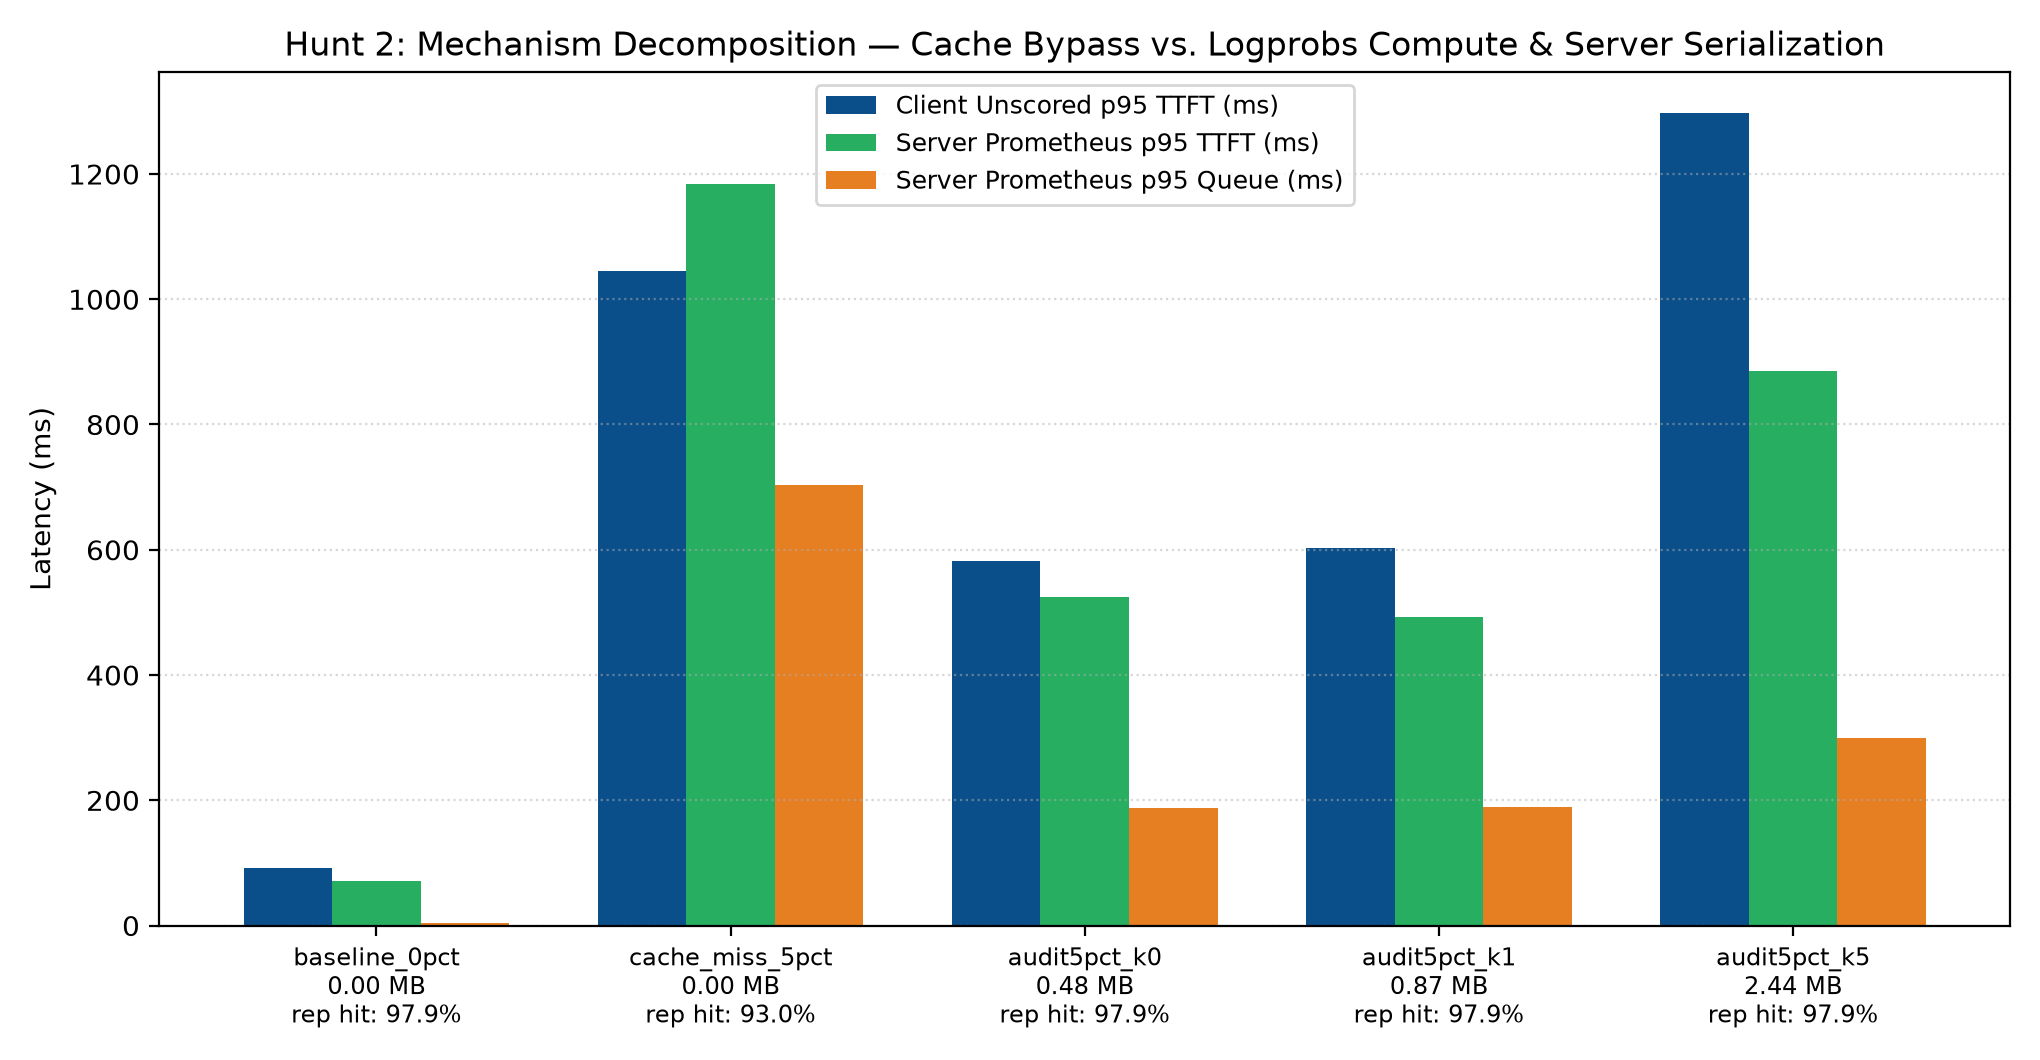
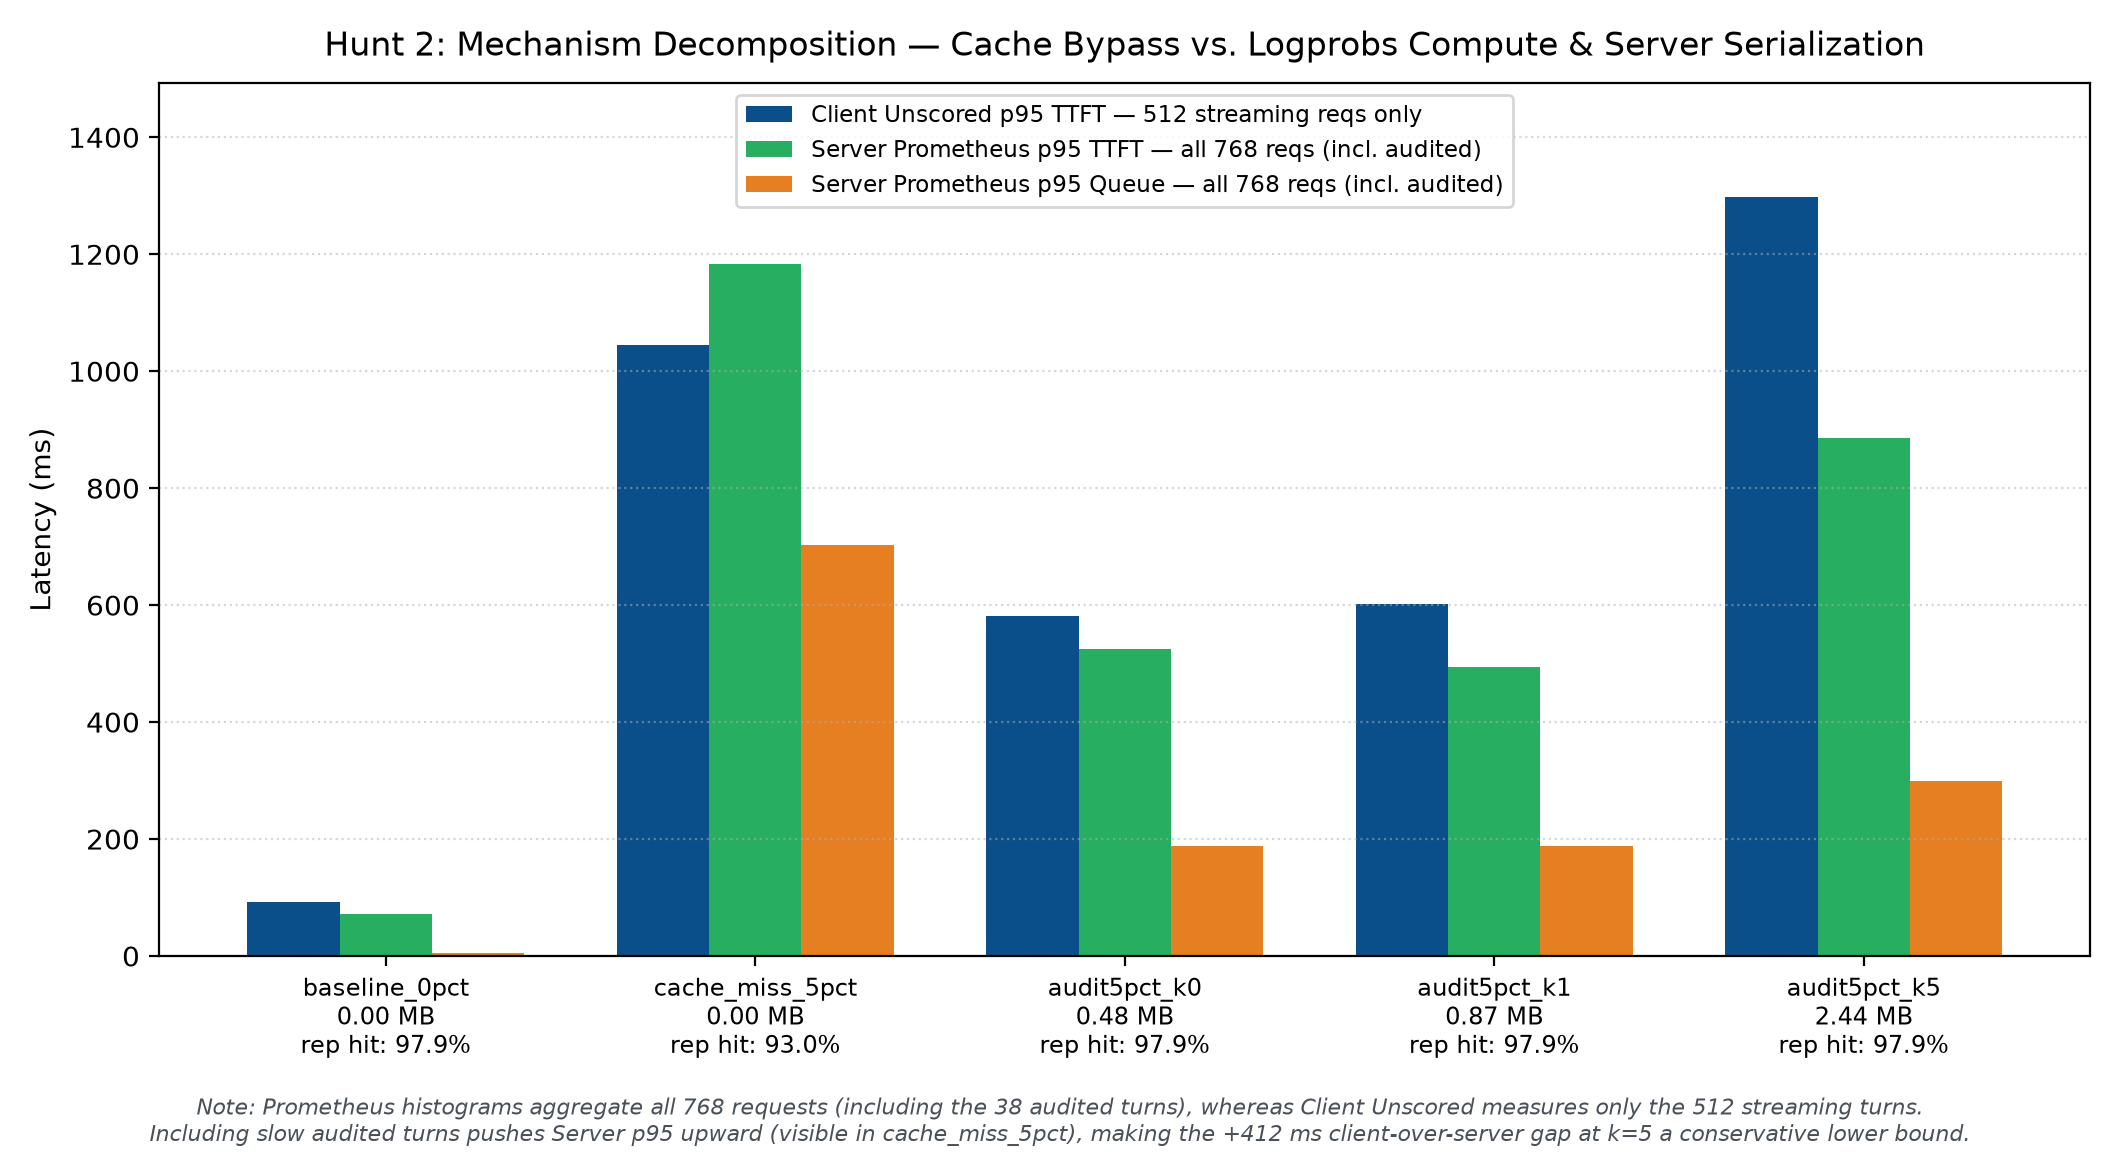
Document Hunt 2 population caveat, add Scope & Limitations, and fail fast on failed cache reset

diff --git a/plot_results.py b/plot_results.py
@@ -296,10 +296,10 @@ def plot_hunt2(results_dir: Path, out_dir: Path) -> None:
 
     x = np.arange(len(order))
     w = 0.25
-    fig, ax = plt.subplots(figsize=(10.2, 5.3), dpi=180)
-    ax.bar(x - w, client_p95, w, label="Client Unscored p95 TTFT (ms)", color="#0b4f8a")
-    ax.bar(x, srv_ttft_p95, w, label="Server Prometheus p95 TTFT (ms)", color="#27ae60")
-    ax.bar(x + w, srv_q_p95, w, label="Server Prometheus p95 Queue (ms)", color="#e67e22")
+    fig, ax = plt.subplots(figsize=(10.6, 5.8), dpi=180)
+    ax.bar(x - w, client_p95, w, label="Client Unscored p95 TTFT — 512 streaming reqs only", color="#0b4f8a")
+    ax.bar(x, srv_ttft_p95, w, label="Server Prometheus p95 TTFT — all 768 reqs (incl. audited)", color="#27ae60")
+    ax.bar(x + w, srv_q_p95, w, label="Server Prometheus p95 Queue — all 768 reqs (incl. audited)", color="#e67e22")
     ax.set_xticks(x)
     ax.set_xticklabels(
         [
@@ -309,10 +309,25 @@ def plot_hunt2(results_dir: Path, out_dir: Path) -> None:
         fontsize=8.5,
     )
     ax.set_ylabel("Latency (ms)")
-    ax.set_title("Hunt 2: Mechanism Decomposition — Cache Bypass vs. Logprobs Compute & Server Serialization")
+    ax.set_title(
+        "Hunt 2: Mechanism Decomposition — Cache Bypass vs. Logprobs Compute & Server Serialization",
+        pad=10,
+    )
+    ax.set_ylim(0, max(client_p95 + srv_ttft_p95) * 1.15)
     ax.grid(axis="y", linestyle=":", alpha=0.5)
-    ax.legend(frameon=True, fontsize=9)
-    fig.tight_layout()
+    ax.legend(loc="upper center", frameon=True, fontsize=8.4)
+    fig.text(
+        0.5,
+        0.01,
+        "Note: Prometheus histograms aggregate all 768 requests (including the 38 audited turns), whereas Client Unscored measures only the 512 streaming turns.\n"
+        "Including slow audited turns pushes Server p95 upward (visible in cache_miss_5pct), making the +412 ms client-over-server gap at k=5 a conservative lower bound.",
+        ha="center",
+        va="bottom",
+        fontsize=7.8,
+        color="#495057",
+        style="italic",
+    )
+    fig.tight_layout(rect=(0.0, 0.06, 1.0, 1.0))
     fig.savefig(out_dir / "hunt2_serialization_gap.png", dpi=200)
     plt.close(fig)
     print(f"[saved] {out_dir / 'hunt2_serialization_gap.png'}")

diff --git a/benchmark.py b/benchmark.py
@@ -828,6 +828,11 @@ async def run_single(
             ks=tuple(sorted({0, 1, 5, audit_logprobs_k})),
         )
         cache_reset_ok = await reset_prefix_cache(client, base_url)
+        if not cache_reset_ok:
+            raise RuntimeError(
+                f"POST {base_url}/reset_prefix_cache failed. "
+                "Start vLLM with VLLM_SERVER_DEV_MODE=1 to guarantee inter-run prefix-cache isolation."
+            )
         warmup_s = await warmup_sessions(client, base_url, model, warmup_prefixes)
         await asyncio.sleep(2.0)
         metrics_before = await fetch_metrics(client, base_url)

diff --git a/README.md b/README.md
@@ -50,7 +50,15 @@ All **76 benchmark runs** (58,368 total requests across calibration, main sweep,
    - **`cache_miss_5pct`** (token 0 mutated, no `prompt_logprobs`): Unscored p95 TTFT reached **`333.6 ms` / `461.8 ms` / `2,339.3 ms`** across seeds (median `461.8 ms`, mean `1,044.9 ms`), showing pure prefix-cache bypass accounts for the bulk of `k=0`/`k=1` spillover—**while Prometheus accurately reports the hit-rate drop (`97.94% → 93.01%`)**.
    - **`audit5pct_k0` & `audit5pct_k1`** (`0.48 MB` / `0.87 MB`): Client p95 = **`582.0 ± 151.8 ms`** / **`602.5 ± 73.3 ms`**, closely tracking server Prometheus p95 (`525.2 ms` / `493.3 ms`)—while Prometheus goes **100% blind (`97.94%`)**.
    - **`audit5pct_k5`** (`2.44 MB` per audited turn): Client p95 surged to **`1,297.6 ± 395.6 ms`** (client p50 `389.6 ms`) vs. server Prometheus p95 **`886.0 ms`**—a genuine **`+412 ms` vLLM API-server serialization / event-loop stall** cleanly separated from client-side parsing.
+   - *Measurement population note:* vLLM Prometheus latency histograms aggregate **all 768 requests** (including the 38 audited turns), whereas Client Unscored p95 covers only the **512 streaming turns**. Because including the 38 slow full-prefill turns pushes global Server p95 *upward* (visible on `cache_miss_5pct`, where server p95 exceeds client unscored p95), the `+412 ms` client-over-server gap at `k=5` is a conservative lower bound on API-server serialization overhead.
 3. **Hunt 3 — Load Boundary ([hunt3_load_boundary.png](plots/hunt3_load_boundary.png)):** 5% auditing severely degraded unscored p95 TTFT across every tested load: **+425.0%** at 35% load (`68.0 → 356.9 ms`), **+496.8%** at 50% load (`73.5 → 438.7 ms`), **+554.7%** at 75% load (`92.5 → 605.7 ms`), and queueing collapse (**+4,521.6%**, `155.6 → 7,189.2 ms`, all 3 seeds unstable) at 90% load.
+
+## Scope & Limitations
+
+- **High-reuse multi-turn geometry (`4,096 + 128` tokens, `97.94%` baseline hit rate):** Spillover amplification scales with the ratio of cached prefix to newly appended tokens (~48:1 here, representative of long-context coding/tool-use agents). Short single-turn prompts or low-reuse workloads will experience a proportionally smaller prefill multiplier.
+- **Model-to-GPU memory ratio & vocabulary size (`Qwen2.5-3B-Instruct` on A100-80GB):** This pairing provides ample KV headroom (~22% active KV utilization, `0` evictions/preemptions), isolating compute/queueing and serialization contention. Tighter memory ratios (e.g., 70B models at high concurrency) may additionally trigger KV eviction or preemption cascades. Conversely, Qwen2.5's large 151,936-token vocabulary makes full-prompt `lm_head` + `log_softmax` heavier relative to a 3B backbone than on larger models with smaller vocabularies.
+- **Unpinned chunked-prefill budget:** `start_server.sh` uses vLLM `v0.34.0`'s default `--max-num-batched-tokens` rather than sweeping explicit chunk budgets; tuning `--max-num-batched-tokens` trades off per-request prefill latency against inter-token smoothness and tail spillover.
+- **Inline shared-pool auditing threat model:** These measurements apply when `prompt_logprobs` audits share the same vLLM replica pool as latency-sensitive streaming traffic. Routing audited turns to dedicated offline/shadow replicas avoids cross-cohort spillover entirely (and is the primary operational mitigation).
 
 ## Environment Requirements
 
